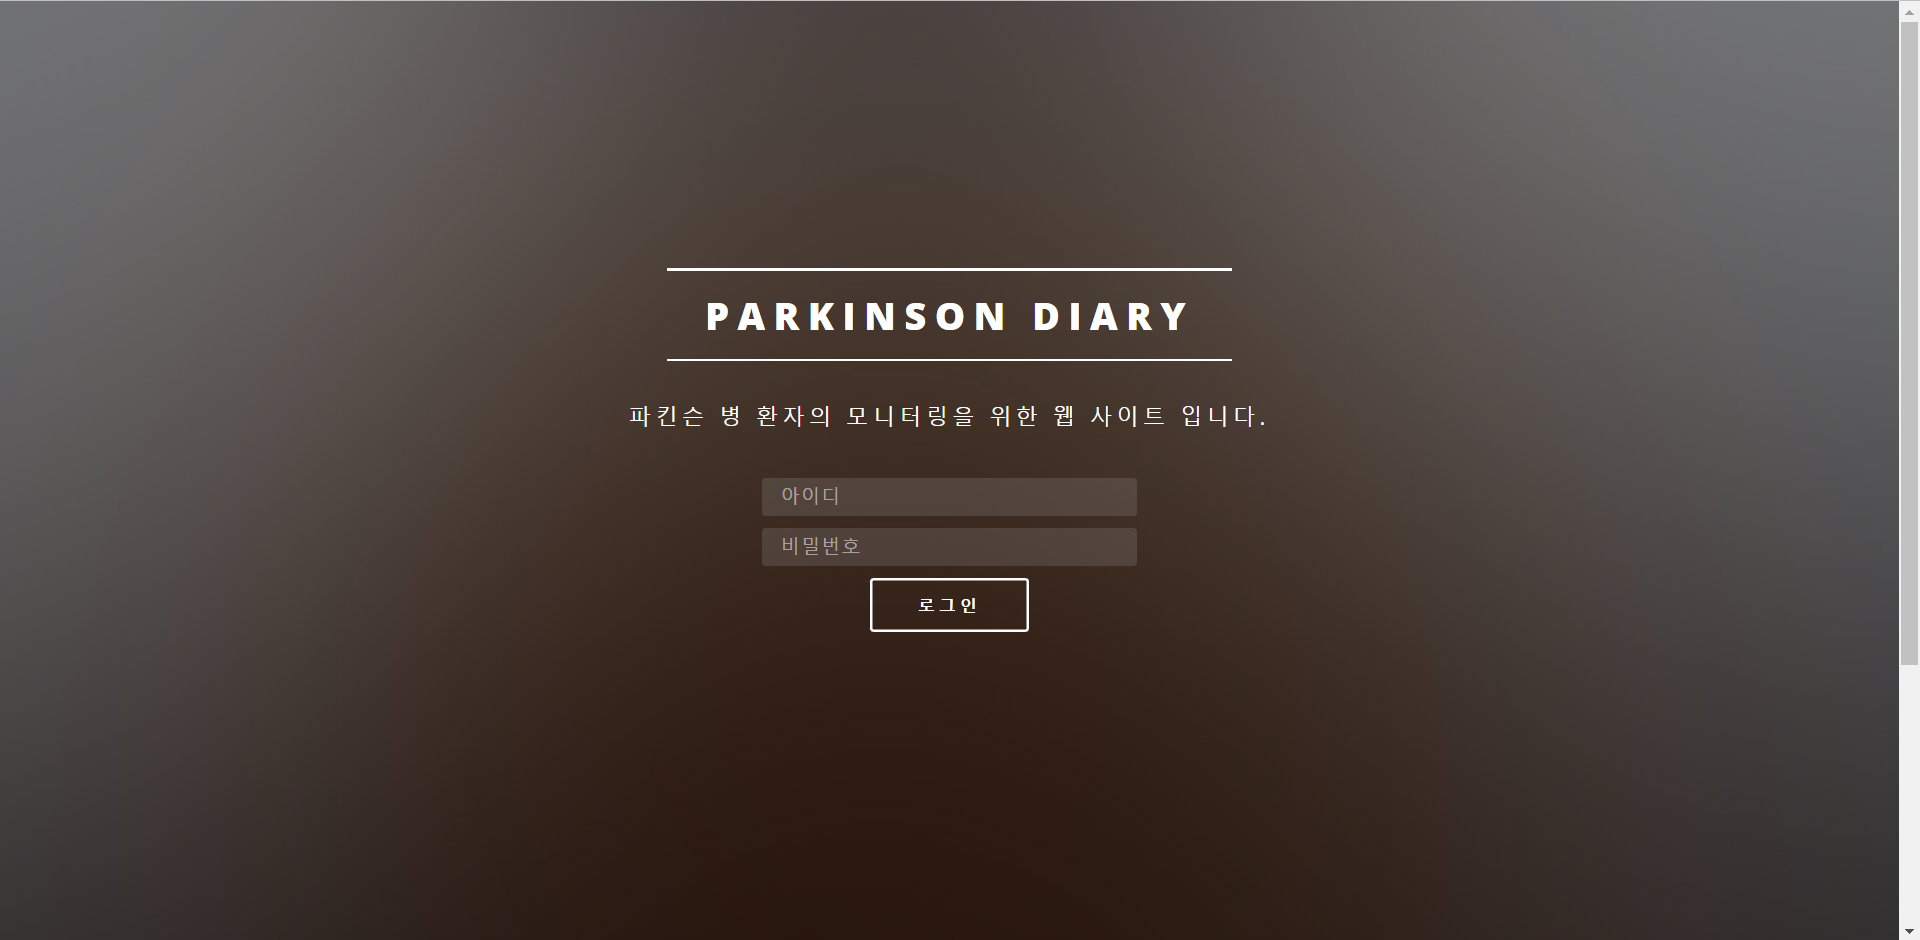
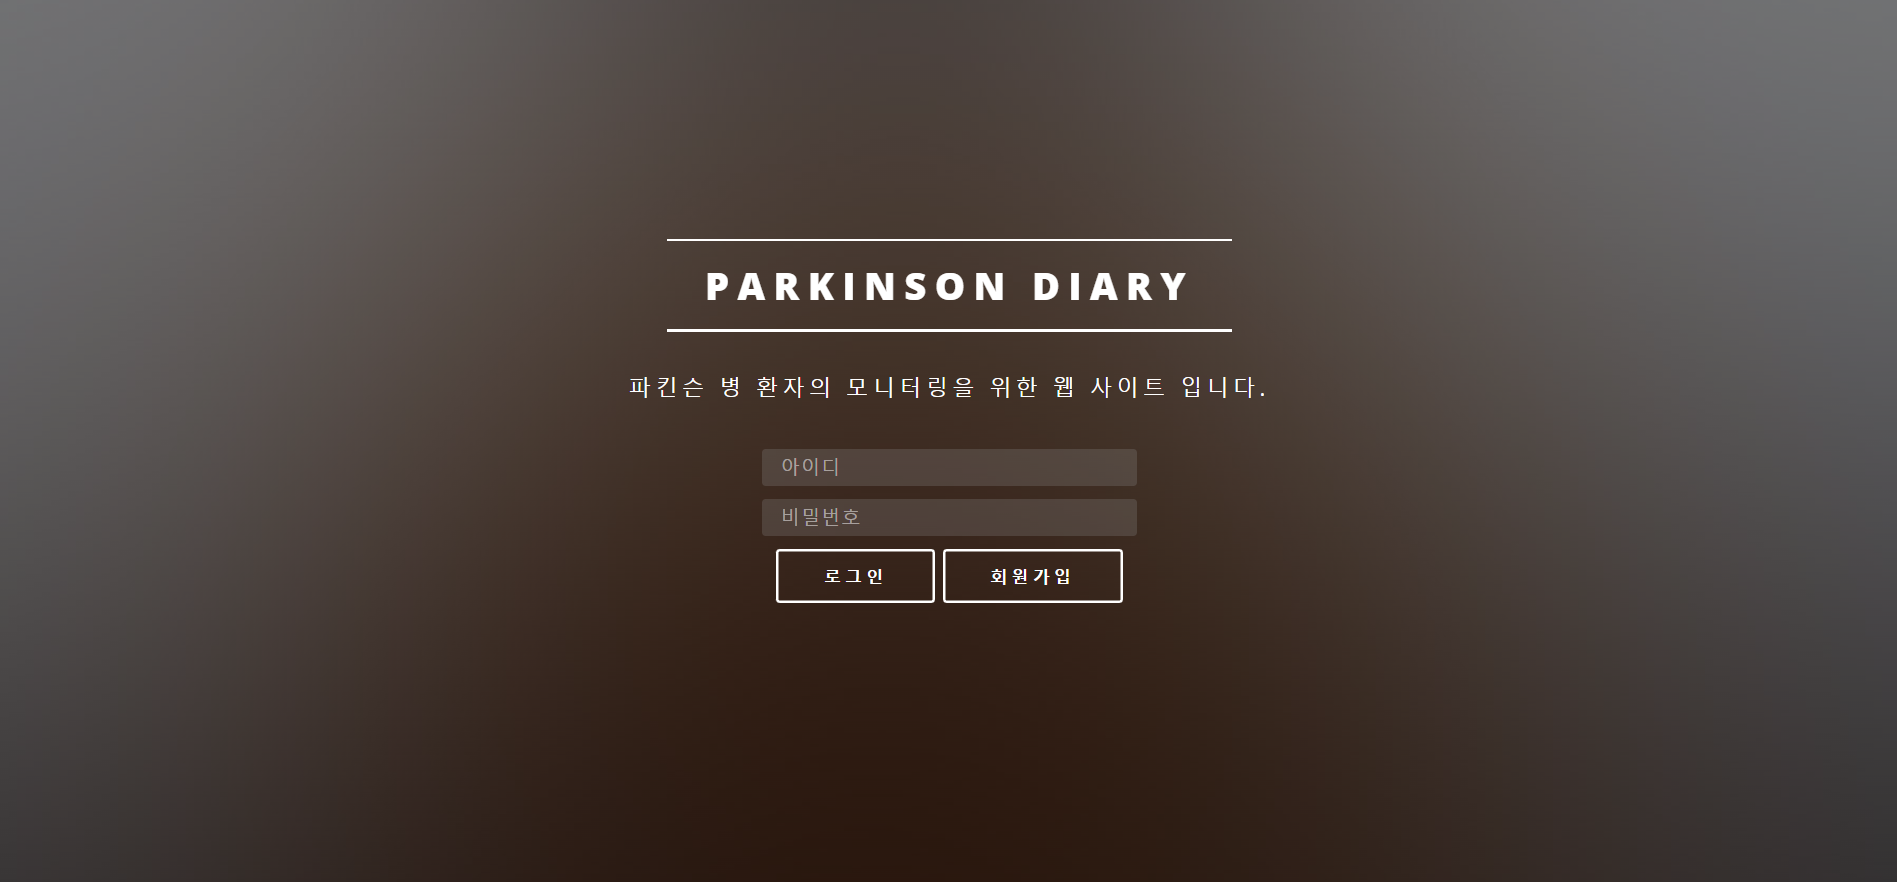
파킨슨 다이어리 관리자용 웹 UI 수정
담당 의사 정보 추가 및 회원 가입 추가

diff --git a/README.md b/README.md
@@ -5,9 +5,9 @@
 ![Parkinson-App-UI](./Parkinson-App-UI.png)
 
 ## 🖥 관리자 웹 인터페이스(UI)
-### 메인
-<img src="parkinson-diary_web_design/main.png" width="550" height="300"/>
-
+### 메인, 회원가입
+![WebList1](parkinson-diary_web_design/main.png) |![WebList2](parkinson-diary_web_design/member.png)
+--- | --- | 
 ### 환자 리스트
 ![WebList1](parkinson-diary_web_design/list1.png) |![WebList2](parkinson-diary_web_design/list2.png)
 --- | --- | 
